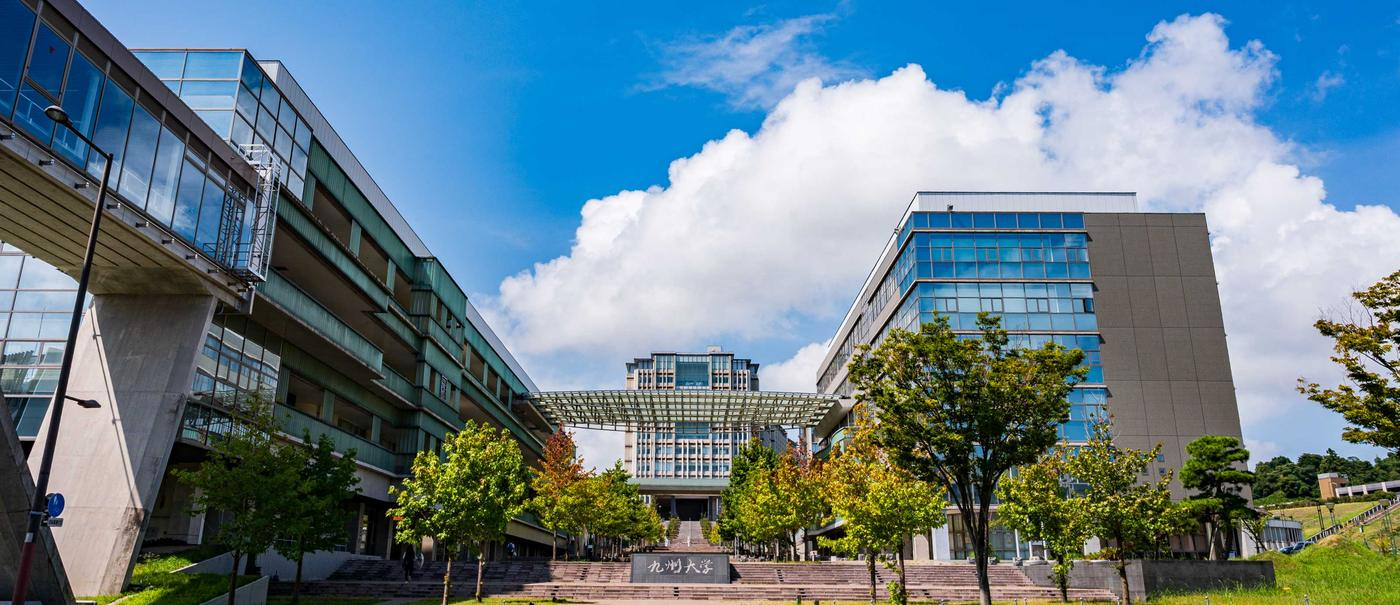
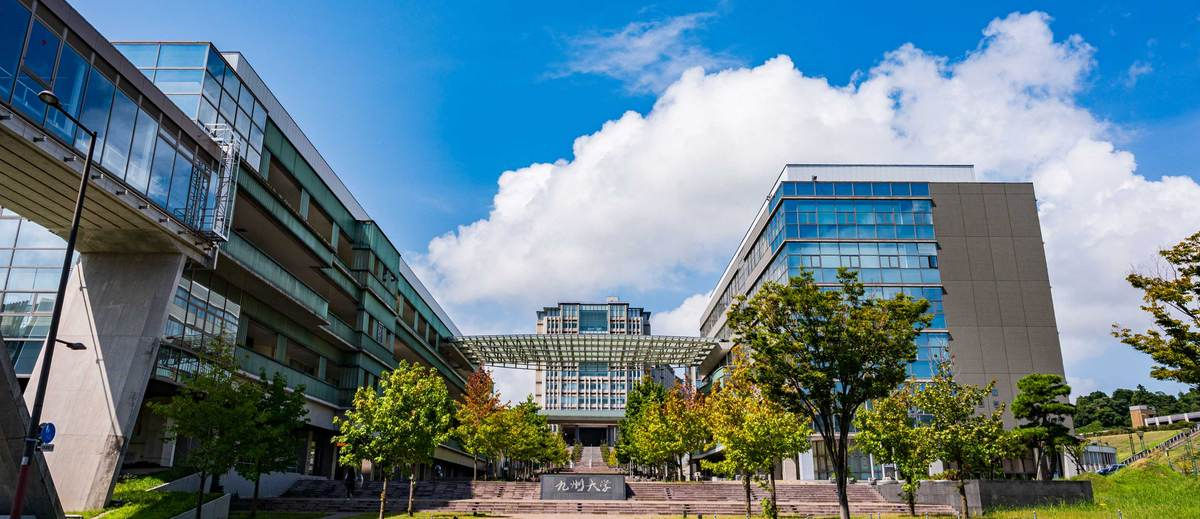
Compress Kyushu campus photo

diff --git a/internships/2027/kyushu-posl.html b/internships/2027/kyushu-posl.html
@@ -51,7 +51,7 @@
     <div class="wrap">
       <p class="back-link"><a href="../../news.html#internships" style="color:var(--magenta)">← All internship opportunities</a></p>
       <figure class="intern-figure">
-        <img class="intern-photo" src="../../images/internships/kyushu-campus.jpg" style="object-position:50% 70%;" alt="Ito Campus, Kyushu University" width="1400" height="605">
+        <img class="intern-photo" src="../../images/internships/kyushu-campus.jpg" style="object-position:50% 70%;" alt="Ito Campus, Kyushu University" width="1200" height="519">
       </figure>
       <dl class="facts">
         <dt>University / institute</dt><dd>Kyushu University</dd>
